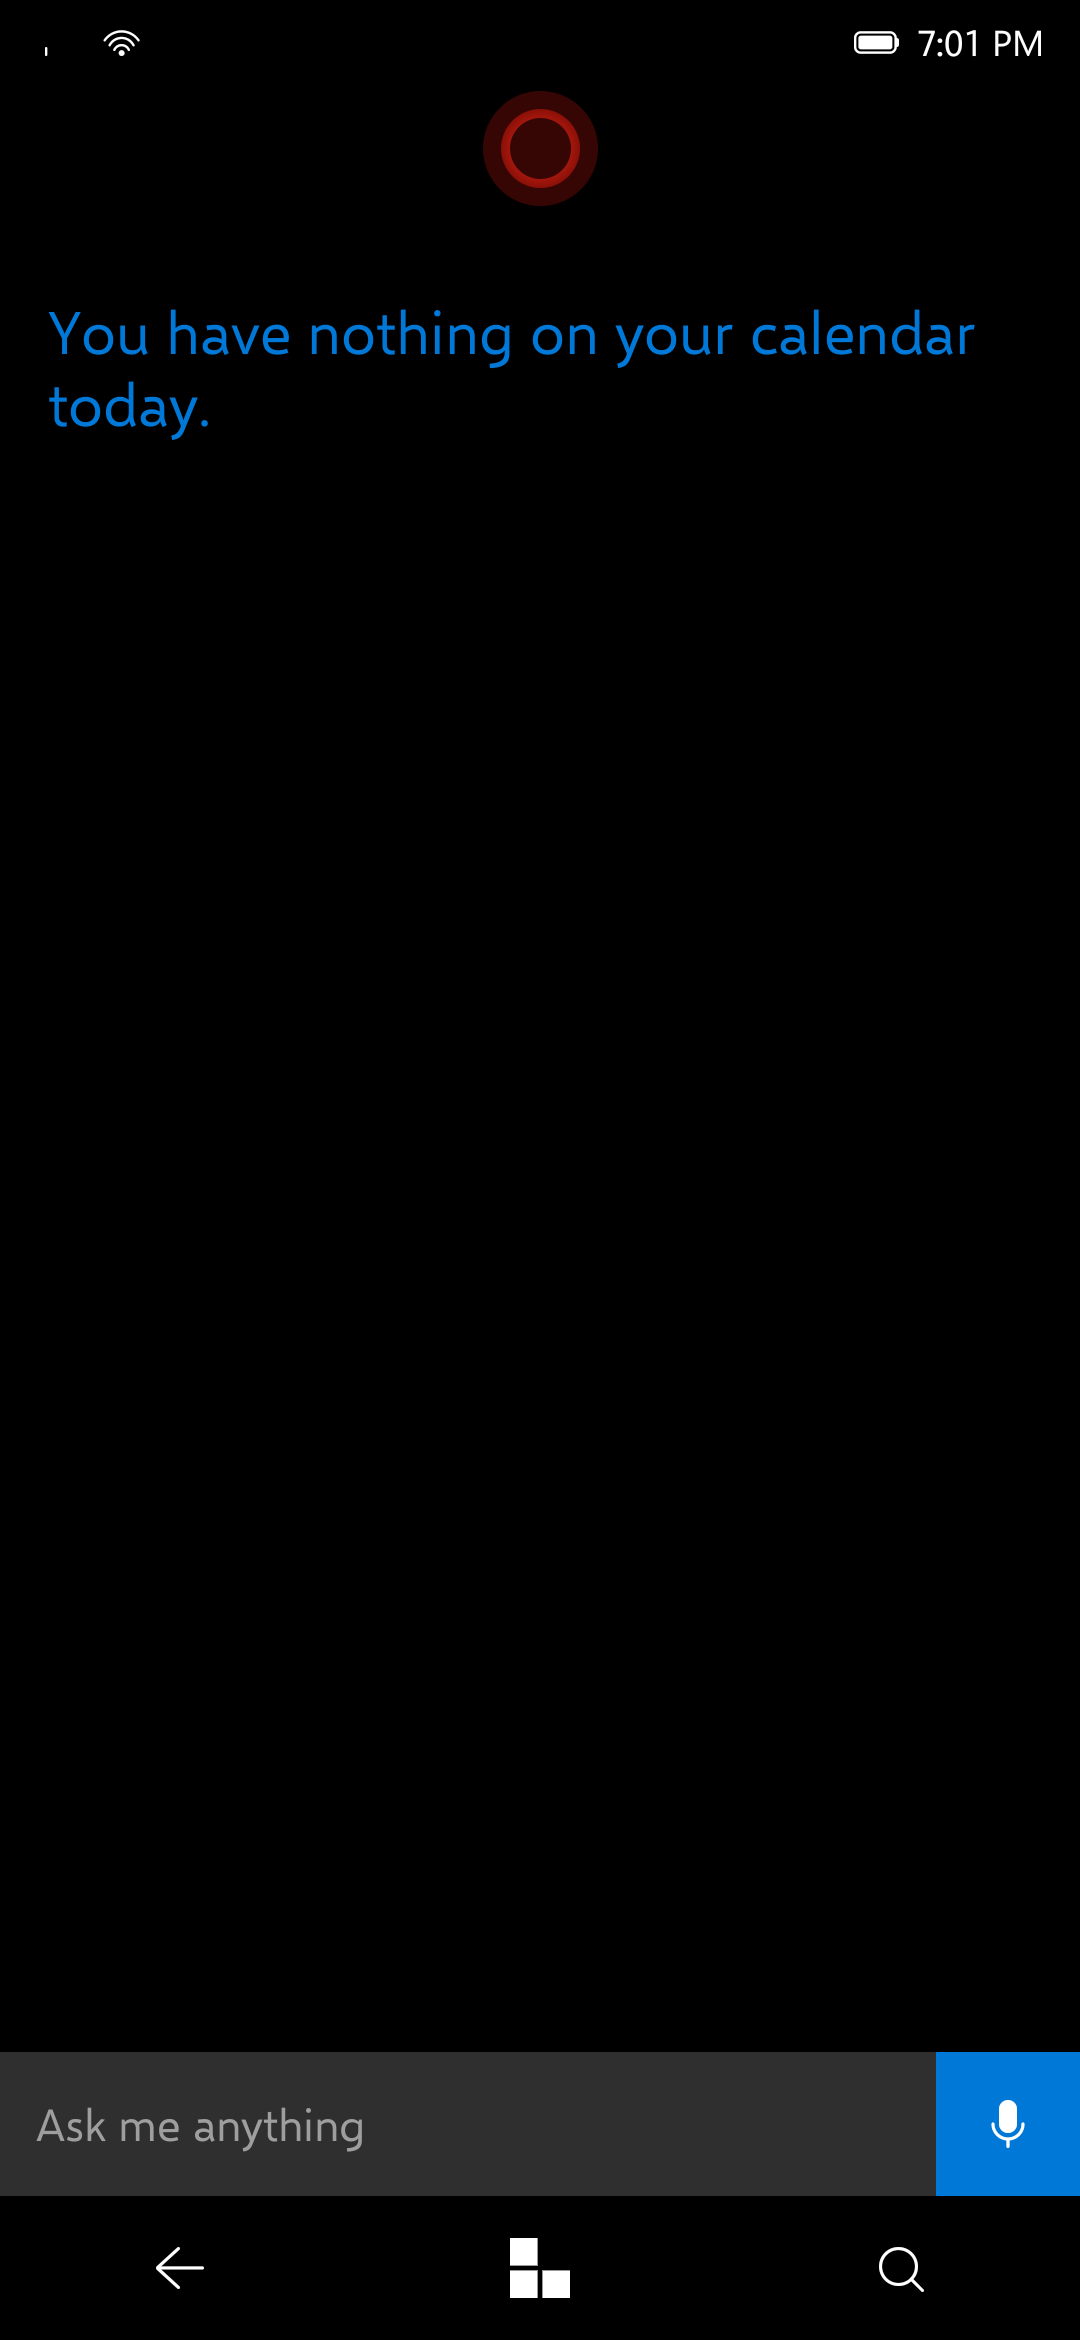
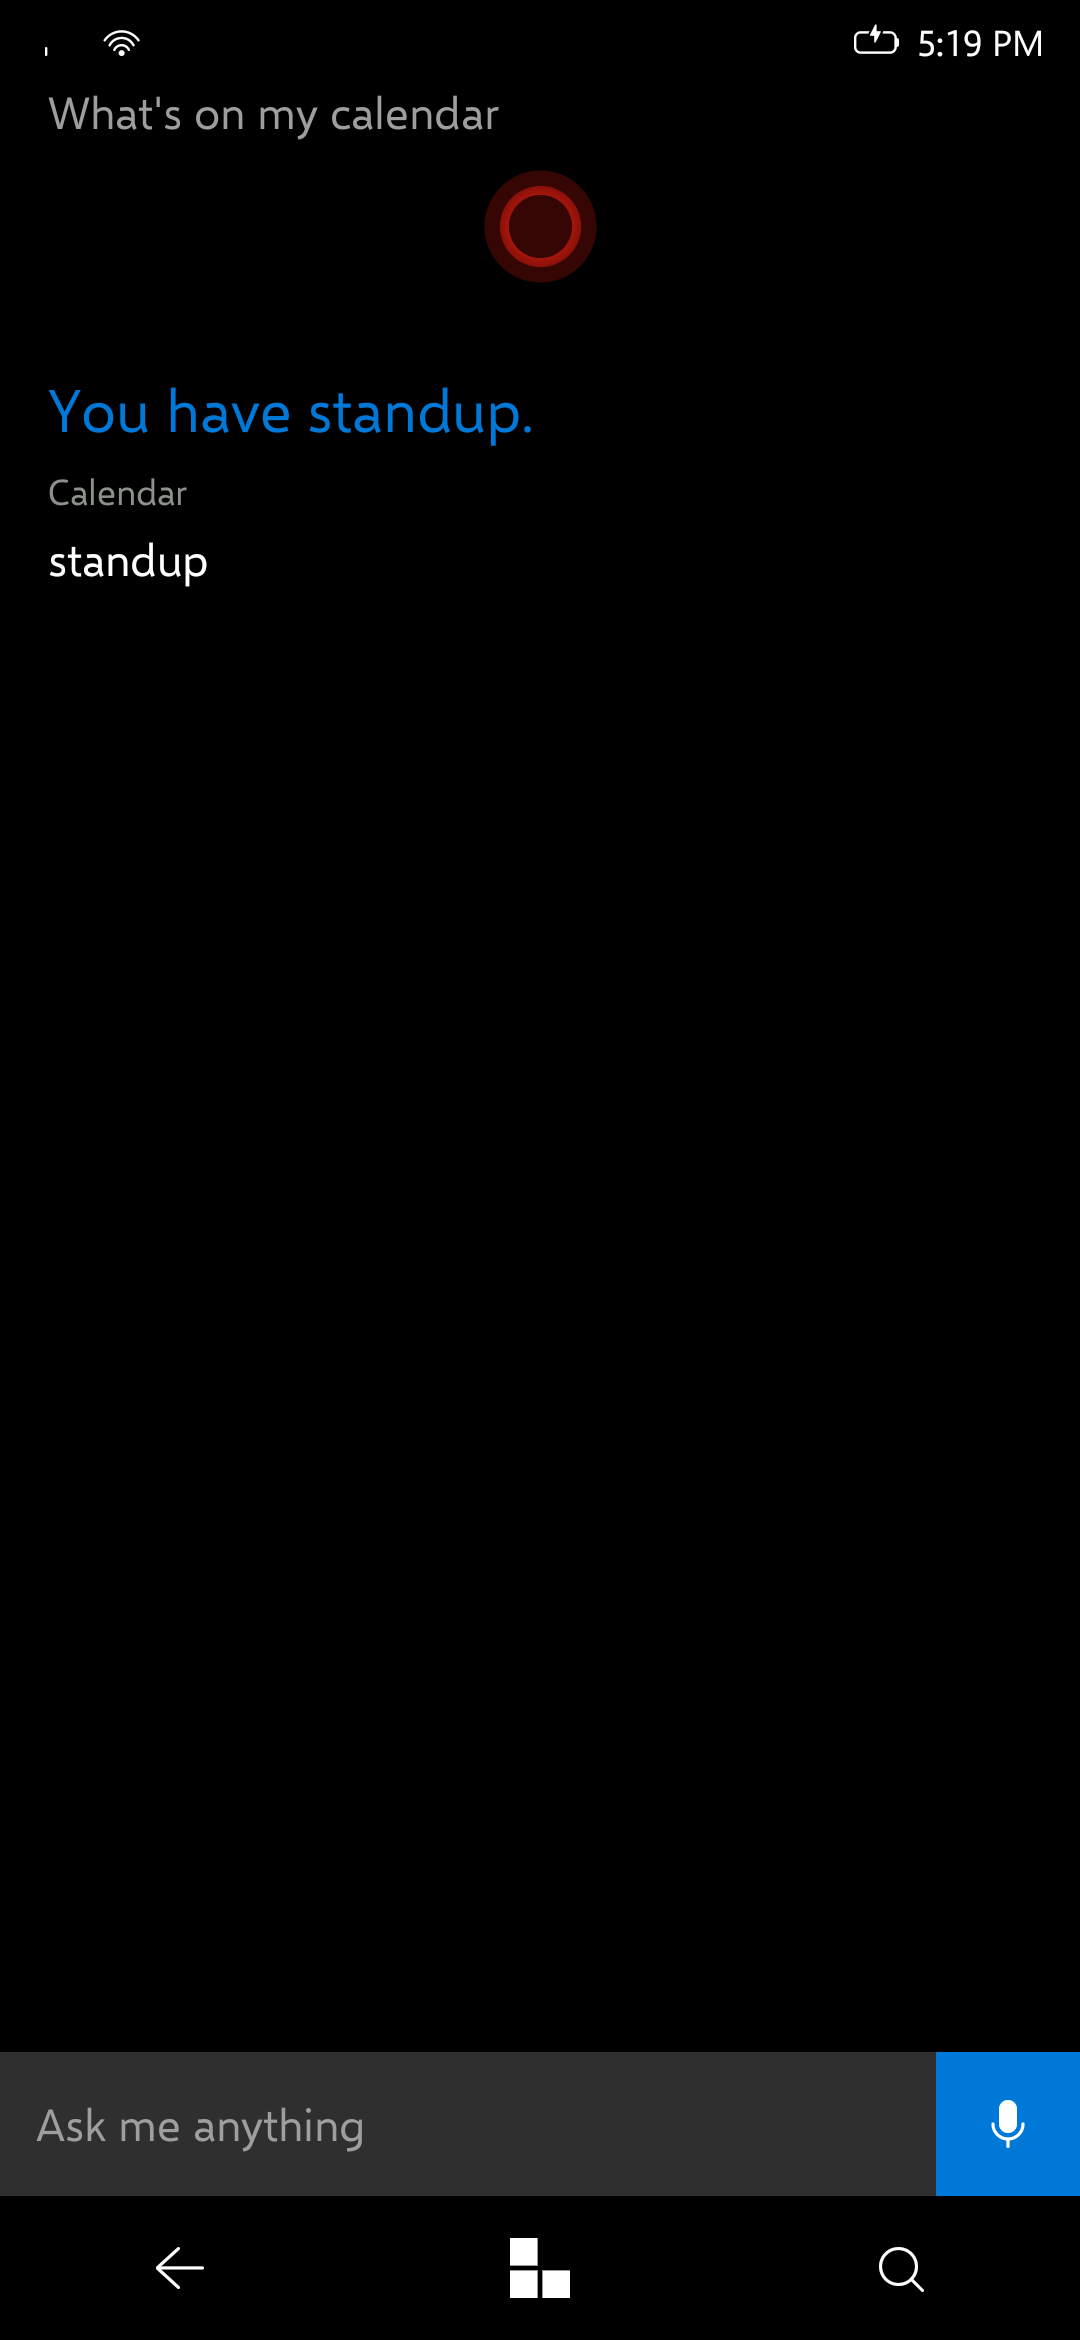
Cortana: one grey line above the answer shows what was asked
The owner ruled "(a)". Since J1 the text box clears on send, so nothing
showed what Tess had heard. The result page now shows the request above
the card, in grey, at most two lines, aligned with the card title. Typed
text appears exactly as typed; a spoken request (the recogniser writes
UPPER CASE) appears in sentence case, via askedLine with unit tests. This
is a P4 design: W10M kept the query in the bar, which is the form J1
replaced.

J1 gains typed and spoken checks: 17/17. The INDEX Change Log records the
change to the finished phase 03 part.

Claude-Session: https://claude.ai/code/session_01TyiMW1MsUxqtZCEkMRB18v

diff --git a/app/src/main/kotlin/app/tileshell/cortana/ui/CortanaSessionRoot.kt b/app/src/main/kotlin/app/tileshell/cortana/ui/CortanaSessionRoot.kt
@@ -117,6 +117,19 @@ private fun HomeOrResult(model: CortanaModel) {
         Box(Modifier.weight(1f).fillMaxWidth().padding(top = BarMetrics.STATUS_EPX.dp)) {
             when (state.route) {
                 is CortanaRoute.Result -> Column(Modifier.fillMaxSize().verticalScroll(rememberScrollState())) {
+                    // What was asked, one grey line above the answer (Jeremy, 2026-09-23: "(a)"). The text box clears on
+                    // send since J1, so without this nothing shows what Tess heard — which matters most when she mishears.
+                    // P4 design: W10M kept the query in the bar instead; judged in a NEEDS-HUMAN row.
+                    if (state.query.isNotBlank()) {
+                        BasicText(
+                            askedLine(state.query),
+                            style = ShellType.body.copy(color = TextBoxValues.PLACEHOLDER_COLOUR),
+                            maxLines = 2,
+                            modifier = Modifier
+                                .padding(start = CardValues.TITLE_LEFT_EPX.dp, end = CardValues.TITLE_LEFT_EPX.dp, bottom = 8.dp)
+                                .testTag("cortana_asked"),
+                        )
+                    }
                     state.card?.let { card ->
                         ResponseCardView(
                             card, state.persona, state.level, accent,
@@ -265,4 +278,15 @@ private fun CortanaDestination.toKey(): CortanaDestinationKey = when (this) {
     CortanaDestination.HOME -> CortanaDestinationKey.HOME
     CortanaDestination.REMINDERS -> CortanaDestinationKey.REMINDERS
     CortanaDestination.SETTINGS -> CortanaDestinationKey.SETTINGS
+}
+
+/**
+ * The asked line's text. The recogniser writes UPPER CASE with no punctuation; shown as heard but in sentence case, so a
+ * spoken "WHAT'S ON MY CALENDAR" reads "What's on my calendar". Typed text is shown exactly as typed.
+ */
+internal fun askedLine(query: String): String {
+    val t = query.trim()
+    if (t.any { it.isLowerCase() }) return t
+    val lower = t.lowercase()
+    return lower.replaceFirstChar { it.uppercase() }
 }

diff --git a/app/src/test/kotlin/app/tileshell/cortana/ui/AskedLineTest.kt b/app/src/test/kotlin/app/tileshell/cortana/ui/AskedLineTest.kt
@@ -1,0 +1,15 @@
+package app.tileshell.cortana.ui
+
+import org.junit.Assert.assertEquals
+import org.junit.Test
+
+class AskedLineTest {
+    @Test fun `a spoken all-caps query reads in sentence case`() {
+        assertEquals("What's on my calendar", askedLine("WHAT'S ON MY CALENDAR"))
+    }
+
+    @Test fun `typed text is shown exactly as typed`() {
+        assertEquals("what time is it", askedLine("what time is it"))
+        assertEquals("Call Mom", askedLine(" Call Mom "))
+    }
+}

diff --git a/docs/plan/qa/JEREMY-QA.md b/docs/plan/qa/JEREMY-QA.md
@@ -16,3 +16,4 @@ is fixed, fixed at the producer, and closed only with a re-run row. Status: open
 | J7 | 2026-09-23 | (found by the agent while reproducing J6) after a confirm card Tess listens for yes / no, and the recogniser turns ~1.75 s of silence into the word "AND", which replaces the pending card with "Sorry, I can't do that yet." | Tess speech (03) | fixed | Fix: the speech process judges speech relative to each capture (12 dB over its quietest tenth, above -70 dBFS, 120 ms; tagged approximations, 13 unit tests; a first fixed -40 dBFS gate dropped real speech and was replaced), and silence while a card waits keeps the card instead of "I didn't catch that". Evidence: the ring after a typed "add a meeting ...": question spoken; listening -> [speech] final open="AND" grammar="AND" audioMs=1750 -> "a new request replaced the pending AddEvent". Same "AND" as J1 run 3. |
 | J6 | 2026-09-23 | (found by the phase 11-19 design review, in code) Tess's "add ... to my calendar" writes to the phone's PRIMARY writable calendar — on a phone signed into Google an account calendar, possibly the work one; Jeremy the same day: "I dont want to add anything to my work calander from my phone ever" | Tess (03), phase 16's rule | fixed | Reproduced: qa/phase-03/J6 run 3 3/7 — with two account-style calendars on the AVD ("QA Work" primary, "QA Personal"), the event landed in QA Work (runs 1-2 were driver quoting and timing faults, kept). Fix, bringing phase 16 Q2 rule 2 forward as a safety fix: every event Tess creates goes into the shell's own LOCAL calendar (feeds/LocalCalendar, created on first use); writableCalendarId is gone. After: J6.txt 7/7 (the event is in the Tessera local calendar, none in either account calendar). |
 | ENV | 2026-09-23 | (agent) the emulator stopped on its own at about 11:13 (no crash trace in the host journal) and came back on simulated battery, where stay-on-while-plugged does nothing, and later asleep ("power_button"); rows then tapped a dark screen and E7 / E8 / MUSIC7 failed as if the product had | QA harness (phase 03 lib.sh, shared by 01 / 02 / 05) | fixed | lib.sh row_begin now wakes the device on AC power (adb emu power ac on, stay-on, wake, dismiss keyguard) and logs "awake" in every row header. On the same APK afterwards: E8 5/5, MUSIC7 46/46, E1 5/5, J7 5/5. Phase 03 E7 (answers by voice) stays 21/60: it was 9/60 in its committed run before today (commit 0fb7372's "blocking defect"), so it is phase 03's open gate, not a regression. Also fixed: the phase 02 baseline lacked the MUSIC slot its slot:music:v1 marker implies (J5 run 2 found "Choose a Music app"), and layout_restore now compares sizes only for hand-set tiles so a real device layout restores. |
+| J1b | 2026-09-23 | (follow-up to J1, asked and ruled) "should Tess show what you asked?" — "(a)": one grey line above the answer | Tess (03) | fixed | CortanaSessionRoot shows state.query above the card (askedLine: sentence case for all-caps speech; unit-tested); J1 gains typed and spoken checks. NEEDS-HUMAN: the line's look (P4). After: J1.txt 17/17 (typed "what time is it", spoken "What's on my calendar"). |

diff --git a/docs/plan/INDEX.md b/docs/plan/INDEX.md
@@ -85,6 +85,7 @@ A phase is `done` only when: acceptance criteria + edge cases executed with capt
 |---|---|---|---|---|---|---|---|
 
 ## Change Log (post-FINAL doc changes only)
+- 2026-09-23: TESS SHOWS WHAT WAS ASKED (Jeremy: "(a)", asked because J1's auto-clear left nothing showing what Tess heard; phase 03's part, recorded because that doc is FINAL). On an answer, one grey line above the card shows the request — typed text exactly as typed, a spoken request in sentence case (the recogniser writes UPPER CASE) — two lines at most, aligned with the card's title. P4 design (W10M kept the query in the bar, the form J1 replaced), judged in a NEEDS-HUMAN row. Row qa/phase-03/J1 gains the typed and spoken checks.
 - 2026-09-23: A11 AMENDED (Jeremy, phase 17 interview: "oh I thought you meant build your own mail and browser which is a no BUT internet is fine but prefer offline so probubly (c)"; recorded because phases 01, 03, 08 and 10 are FINAL and cite A11). Internet is allowed where a feature needs it, offline preferred; media may go online. R10-Q4 stands as a no to building Mail, a browser or Maps. Phase 10 (built): its Q1 note "no cloud (A11) takes Groove's Radio pivot and its streaming catalogue off the table" no longer holds — Music streaming and Radio are back in scope as a NEW part with its own phase doc and interview (see "In scope but NOT split"); nothing in the built player changes today. Phases 01 / 03 / 08: no wording changes; their internet lines were already narrow uses that remain allowed.
 - 2026-09-23: STANDING PRINCIPLE P6, DETERMINISTIC FIRST, THEN THE LLM (Jeremy, phase 15 interview Q5: "anything deterministic can be dont with out an llm and then feed the llm with better smaller info"; recorded because phases 08 and 09 are FINAL). No wording in those docs changes today; at their builds, anything with one right answer is computed by code and handed to the model as a small exact input, never left for the model to work out. PLAN.md carries P6.
 - 2026-09-22: LIVE-QA FIXES IN FINISHED PHASES' PARTS (Jeremy testing on the phone, then "Fix all the issues I am remote right now"; agent, Opus 5.5; ledger qa/JEREMY-QA.md). No FINAL doc's wording changes: each restores behaviour a FINAL doc already specifies, so this line only records where the code moved. J2 (phase 10): an MP3 with no Xing/Info header reported no length under E17's index seeking, so the total read 0:00 and scrubbing seeked to the start; KnownDurationPlayer reports MediaStore's measured length to the session and the crossfade. J3 (phase 01): the grid's content now ends above the fixed rows, as the bottom-row decision says, so the end of Start and an open folder scroll clear of them. J4 (phases 01/02): a hold on the promoted last-opened tile now enters edit mode instead of launching the app. Phase 02's edit layer also logs each hover, the dwell's end and every drop's outcome (diagnostics only).
